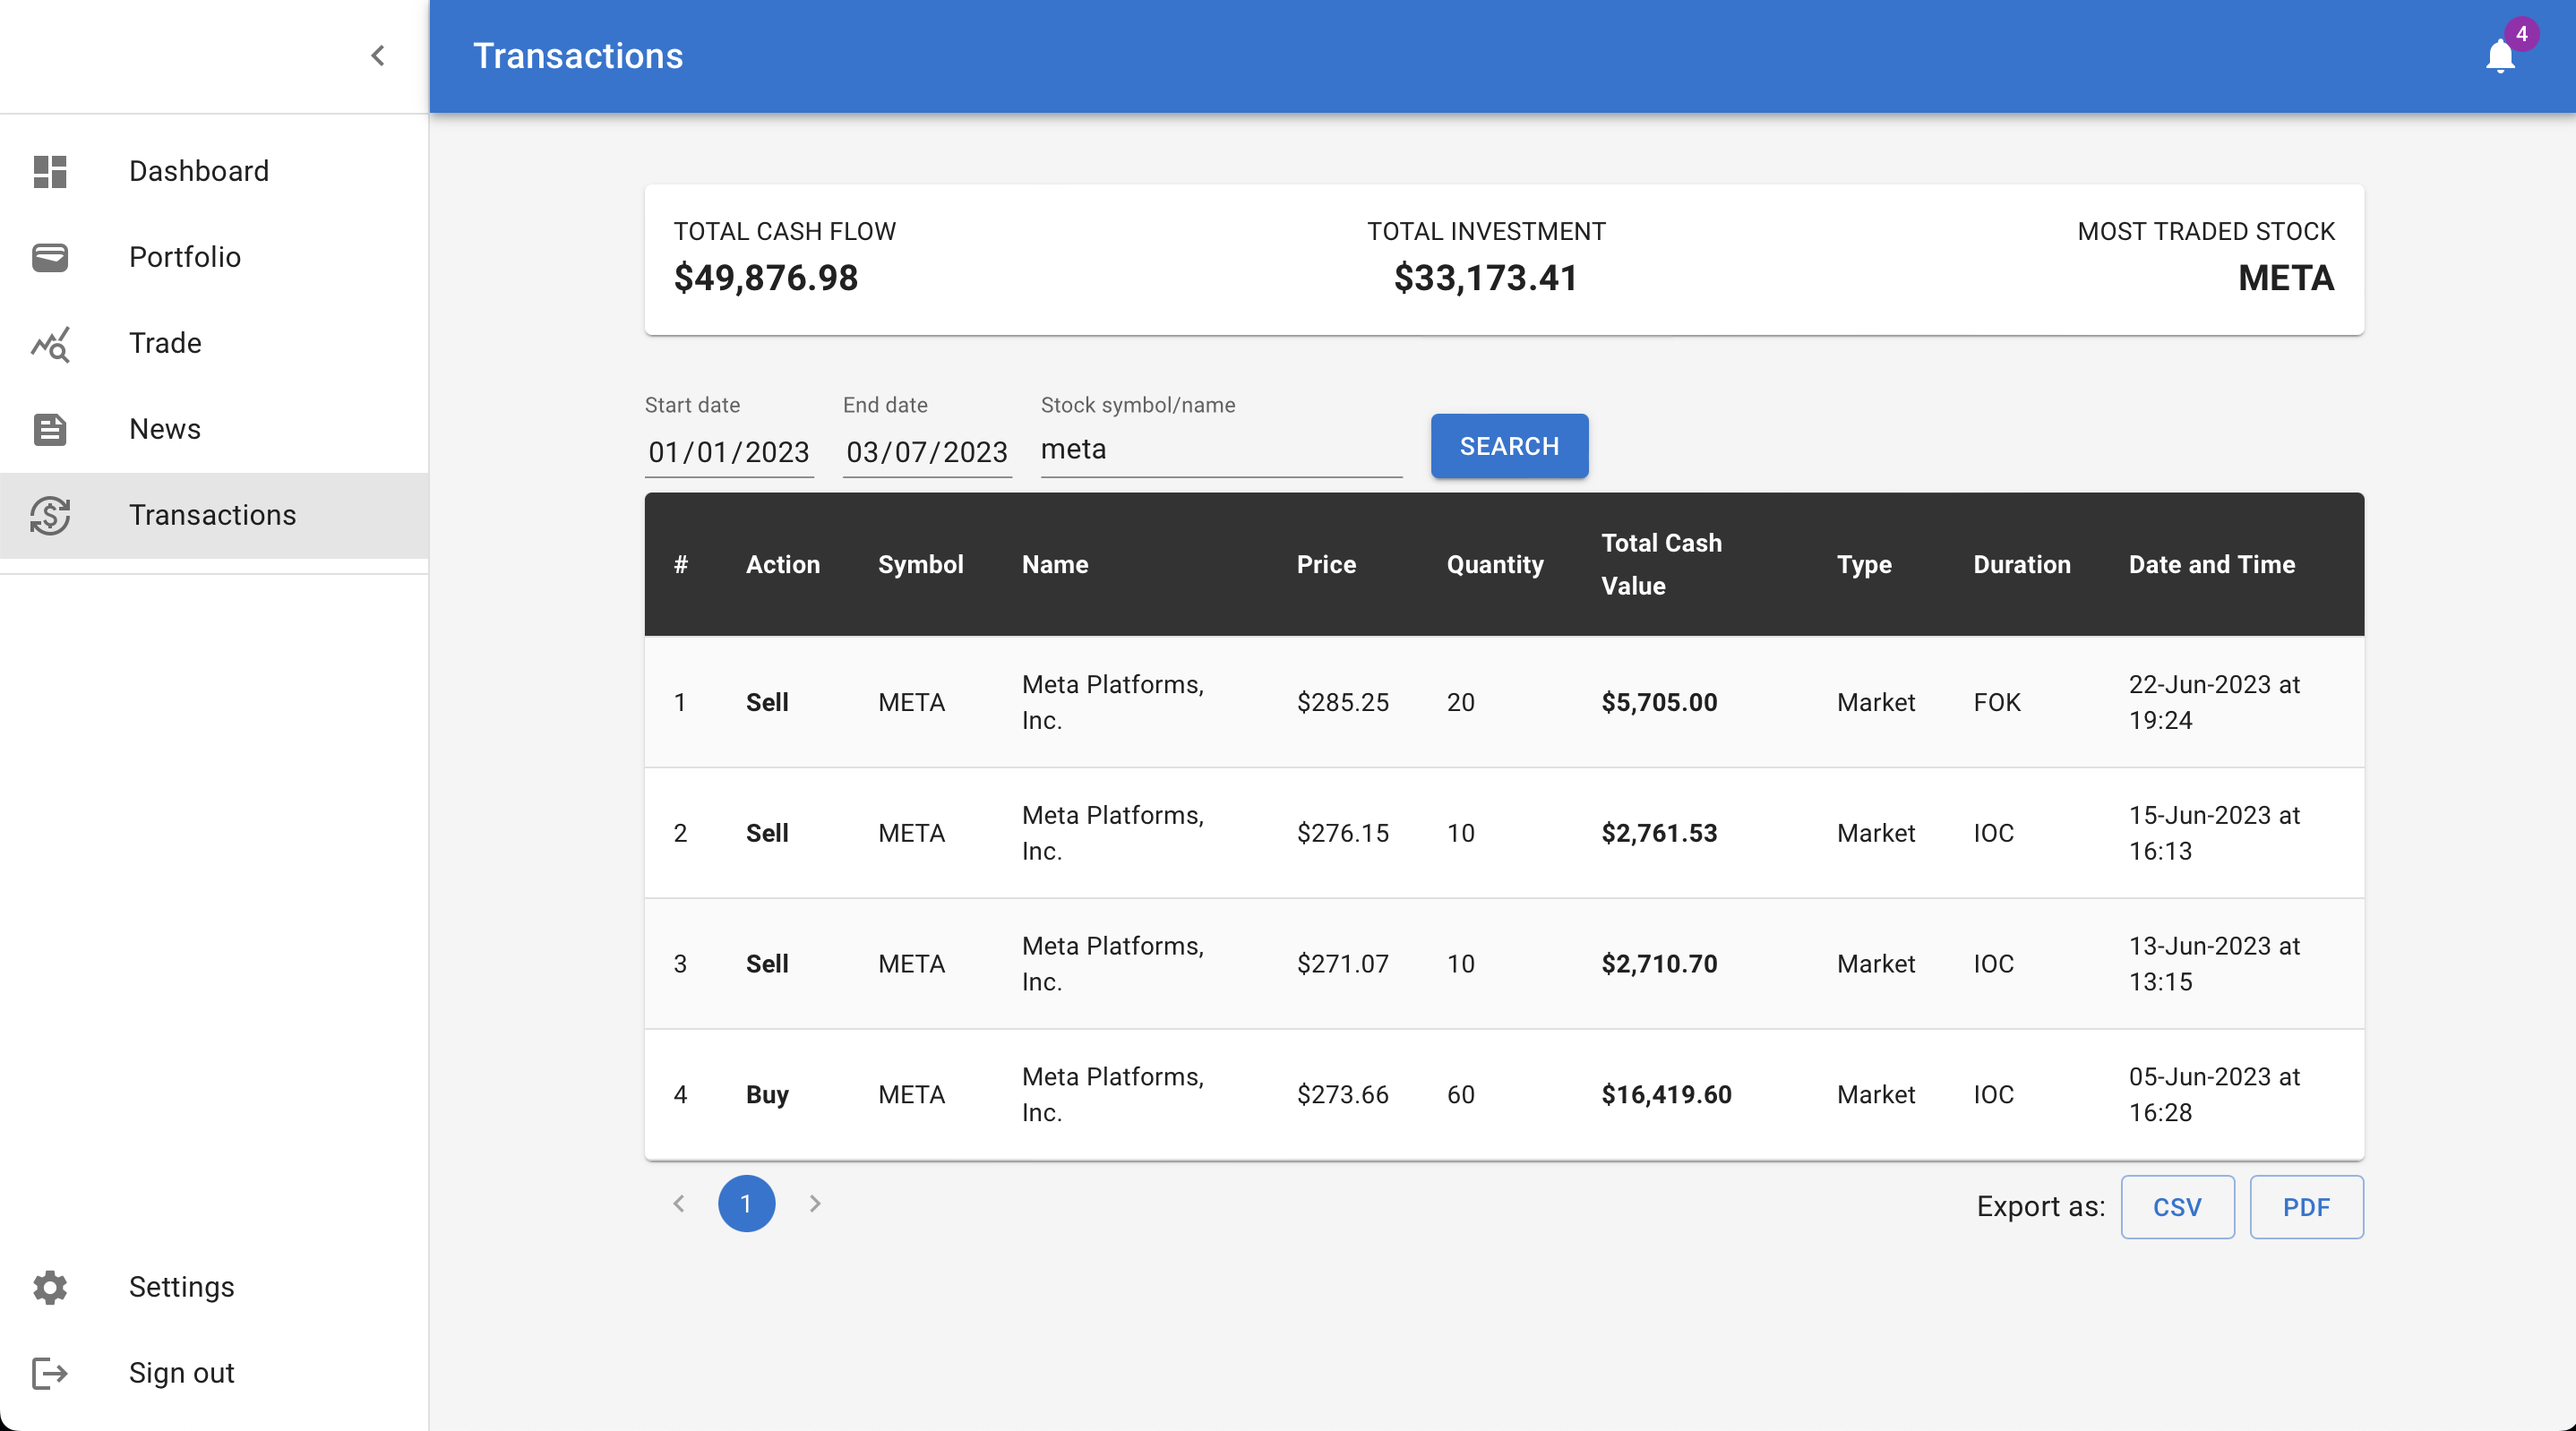
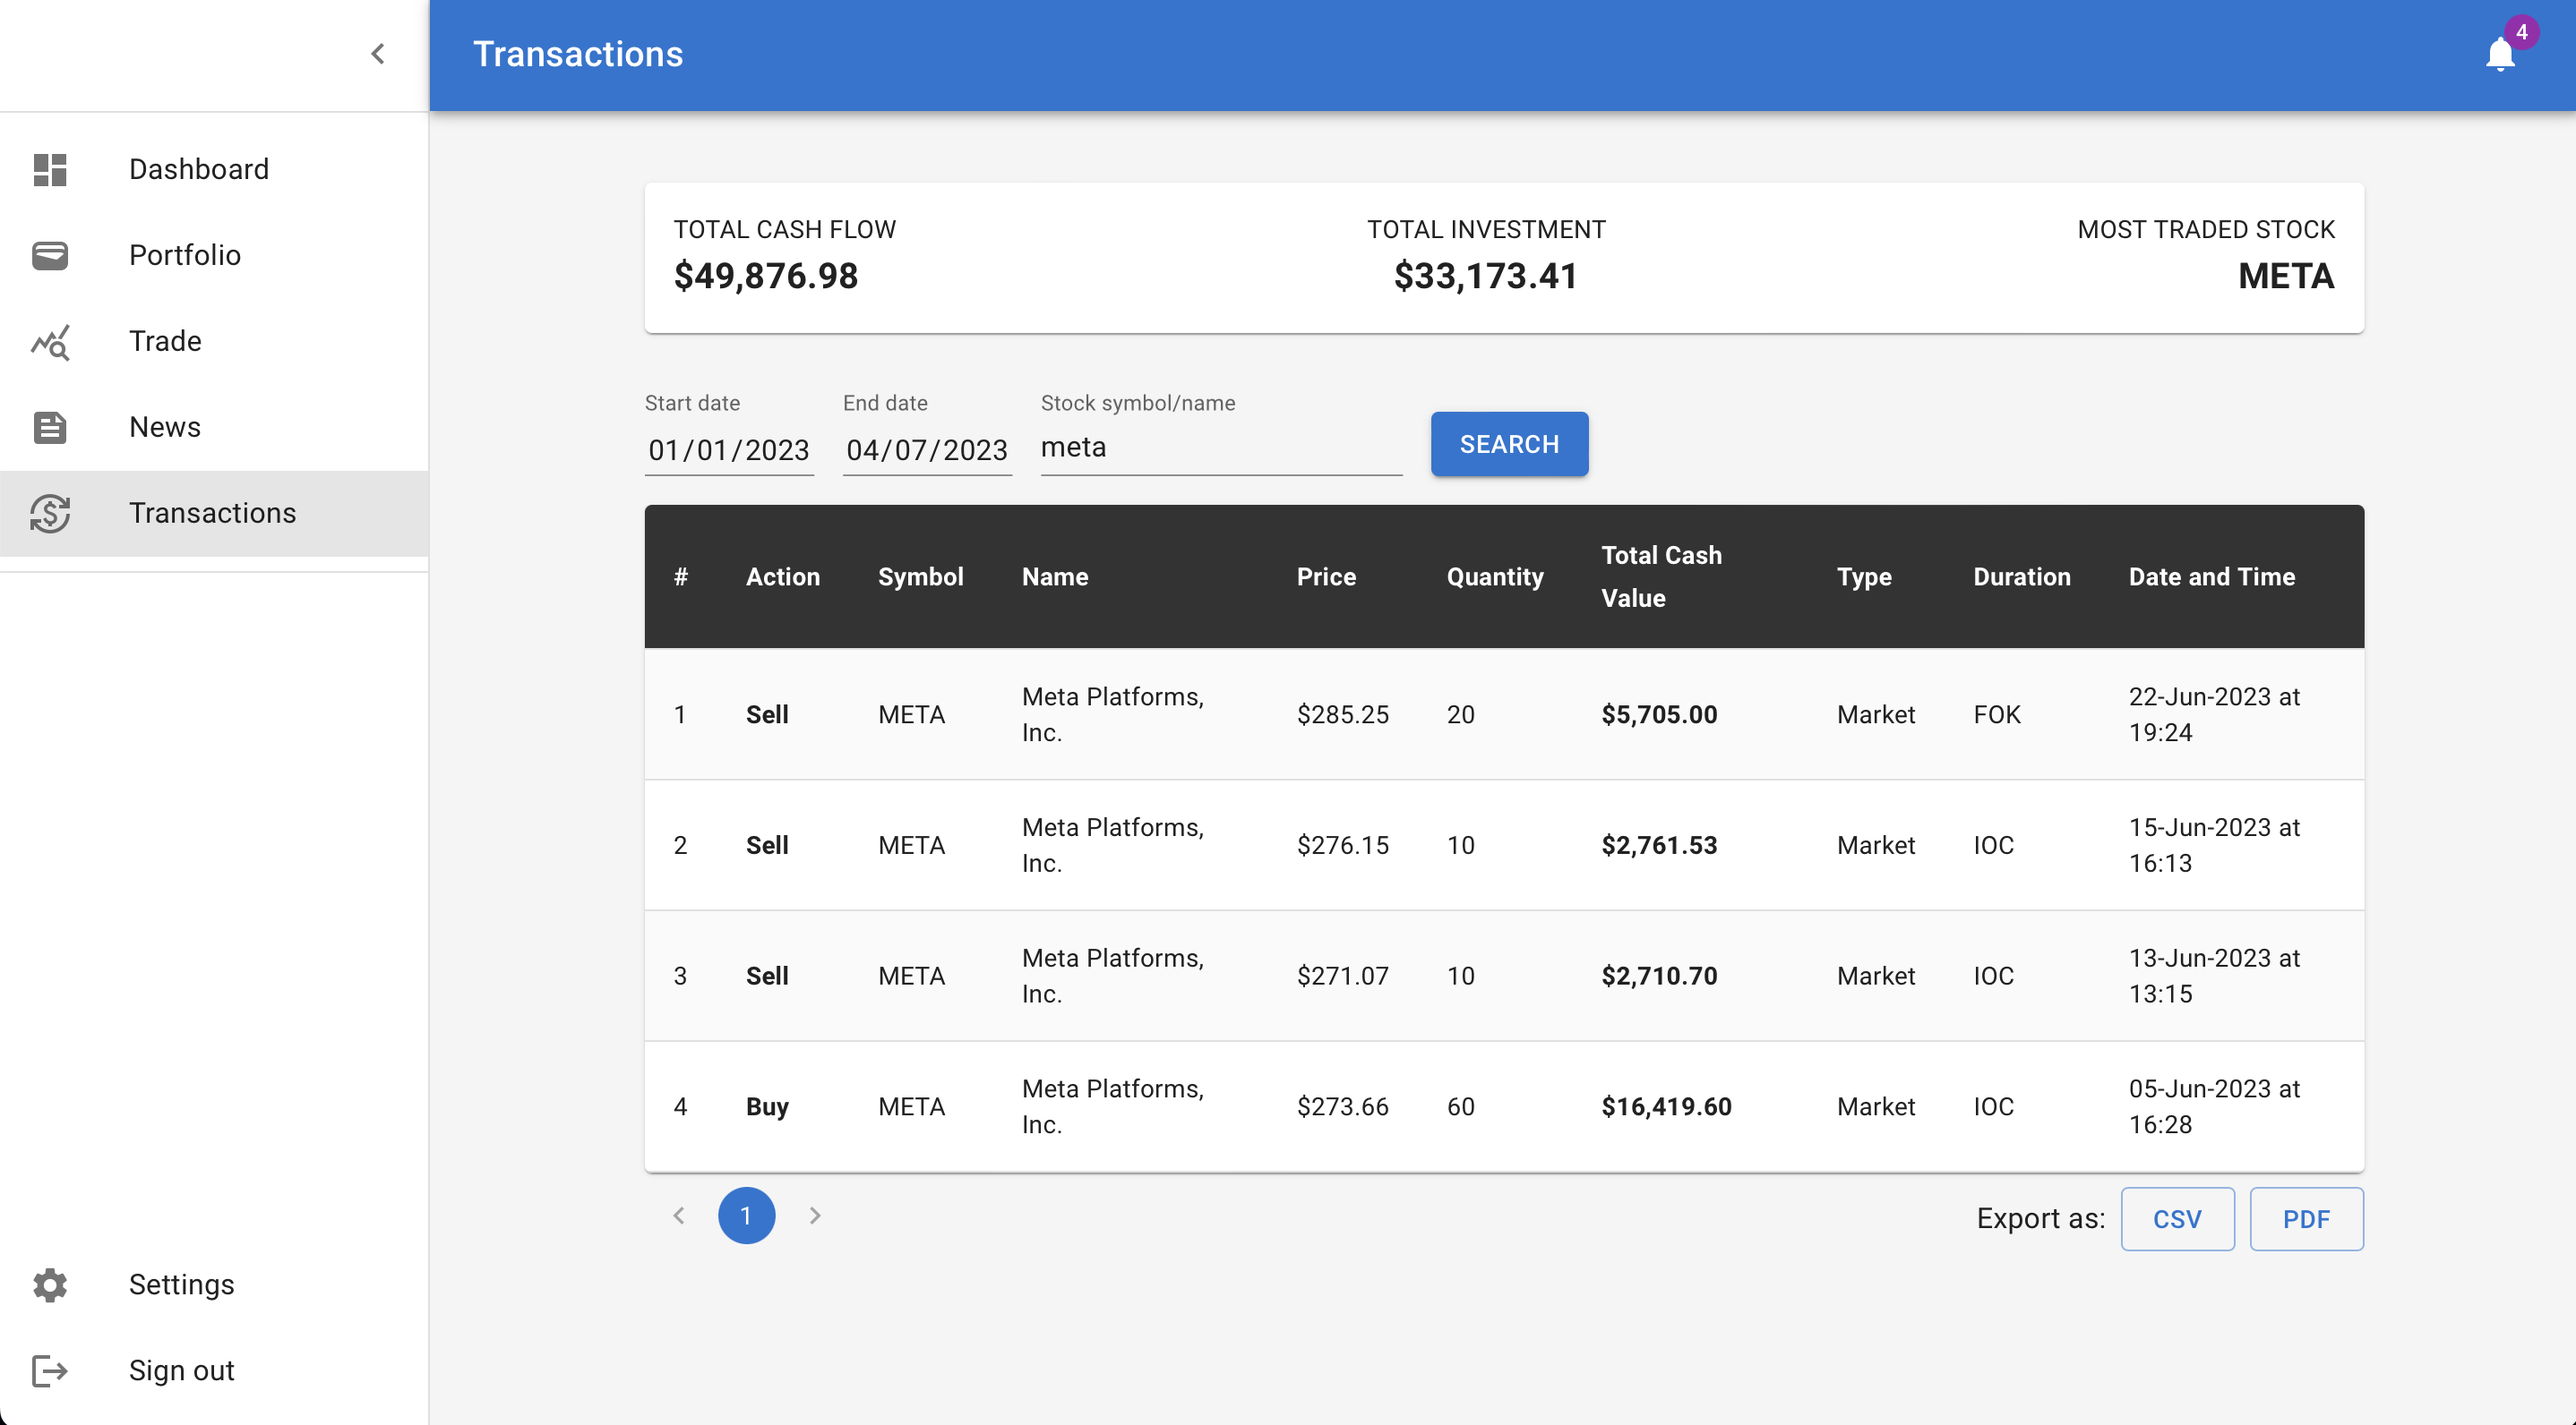
Update margin for consistency

diff --git a/frontend/src/components/transactions/transactions-filter.jsx b/frontend/src/components/transactions/transactions-filter.jsx
@@ -3,7 +3,7 @@ import { Box, Button, TextField } from "@mui/material";
 
 export default function TransactionsFilter(props) {
   return (
-    <Box display='flex' alignItems='end' gap={2}>
+    <Box display='flex' alignItems='end' gap={2} mb={2}>
       <TextField
         id='start-date'
         type='date'
